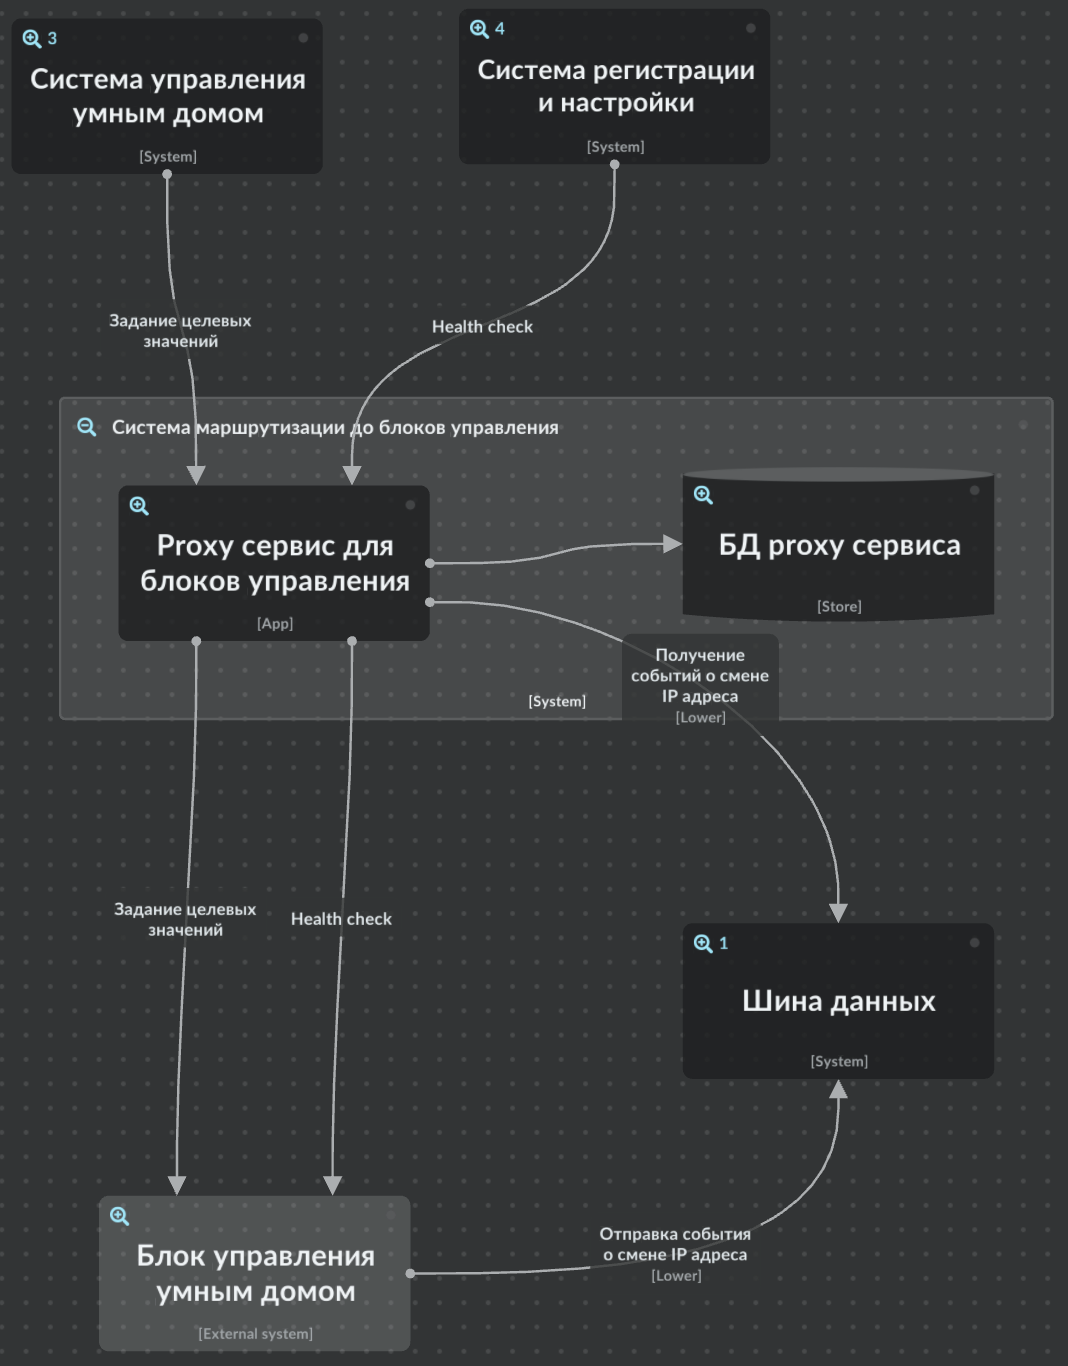
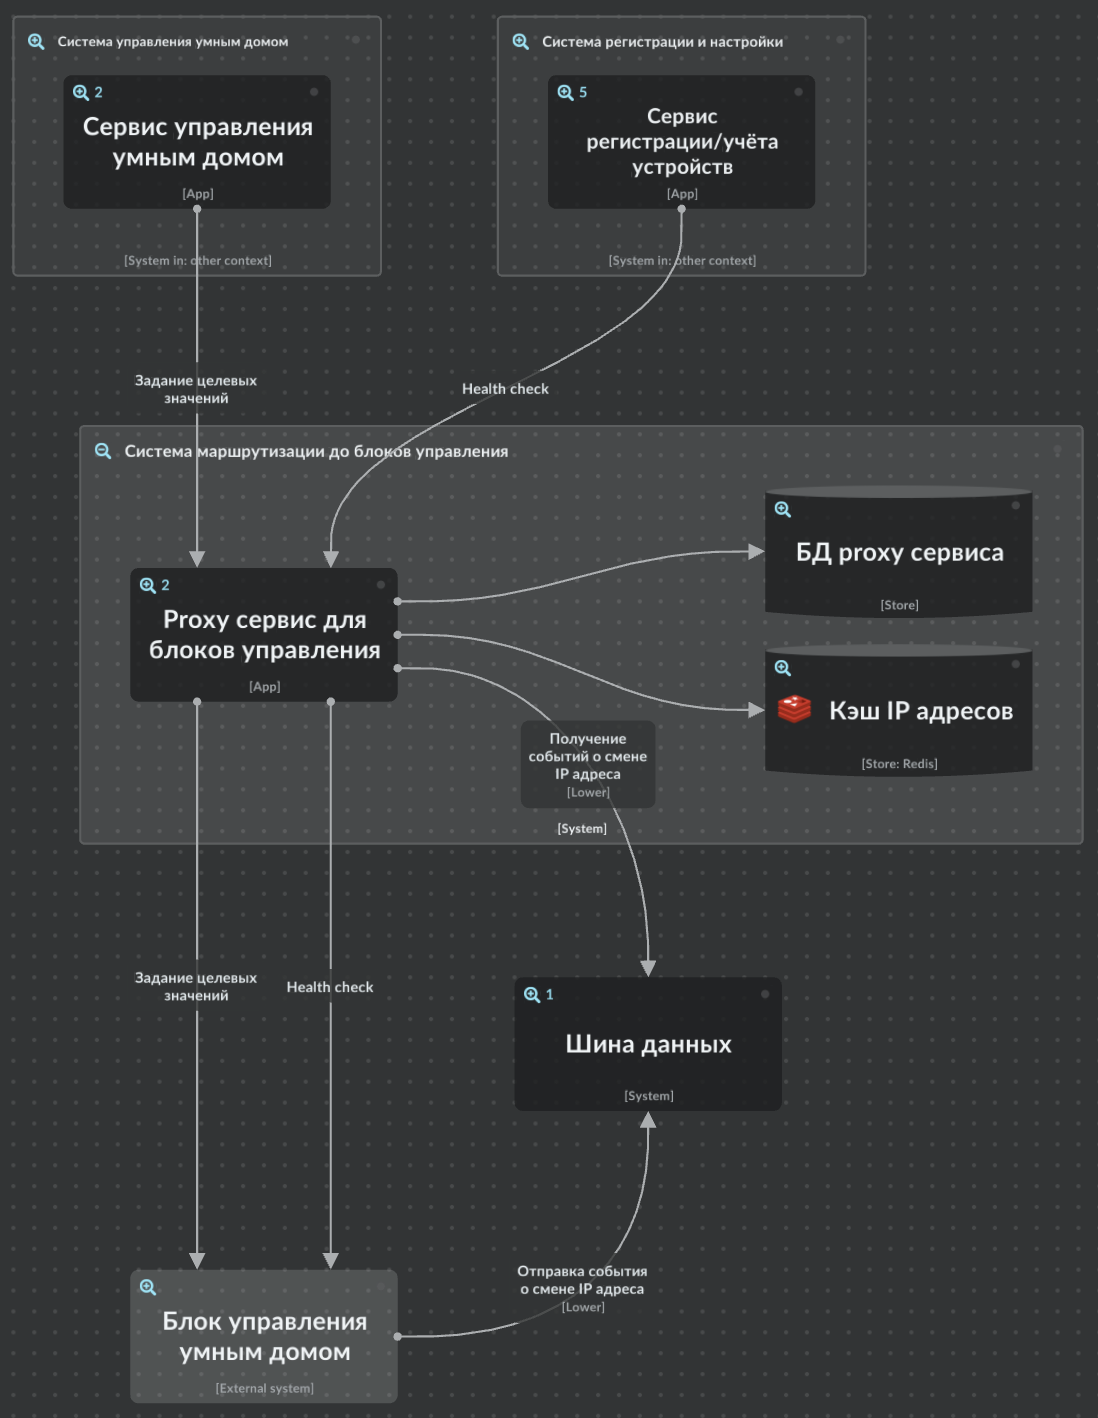
HW: actualize

diff --git a/README.md b/README.md
@@ -98,34 +98,63 @@
 #### C4 System Context diagram 
 ![task_1.2.3.0.png](task_1.2.3.0.png)
 
-#### C4 Containers diagram
+#### C4 Containers diagram and Components diagram
 
-##### API-Gateway
+##### API-Gateway (Containers diagram)
 
 ![task_1.2.3.1.1.png](task_1.2.3.1.1.png)
 
-##### Система мониторинга и логирования
+##### Система мониторинга и логирования (Containers diagram)
 
 ![task_1.2.3.1.2.png](task_1.2.3.1.2.png)
 
+###### Сервис телеметрии (Components diagram)
 
-##### Система управления умным домом
+![task_1.2.3.1.2.1.png](task_1.2.3.1.2.1.png)
+
+###### Сервис логирования операций (Components diagram)
+
+![task_1.2.3.1.2.2.png](task_1.2.3.1.2.2.png)
+
+##### Система управления умным домом (Containers diagram)
 
 ![task_1.2.3.1.3.png](task_1.2.3.1.3.png)
 
-##### Система регистрации и настройки 
+###### Сервис управления умным домом (Components diagram)
+
+![task_1.2.3.1.3.1.png](task_1.2.3.1.3.1.png)
+
+###### Сервис сценариев (Components diagram)
+
+![task_1.2.3.1.3.2.png](task_1.2.3.1.3.2.png)
+
+##### Система регистрации и настройки (Containers diagram)
 
 ![task_1.2.3.1.4.png](task_1.2.3.1.4.png)
 
-##### Система маршрутизации до блоков управления
+###### Сервис профилей пользователей (Components diagram)
+
+![task_1.2.3.1.4.1.png](task_1.2.3.1.4.1.png)
+
+###### Сервис регистрации/учёта устройств (Components diagram)
+
+![task_1.2.3.1.4.2.png](task_1.2.3.1.4.2.png)
+
+##### Система маршрутизации до блоков управления (Containers diagram)
 
 ![task_1.2.3.1.5.png](task_1.2.3.1.5.png)
 
-##### Шина данных
+###### Proxy сервис для блоков управления (Components diagram)
+
+![task_1.2.3.1.5.1.png](task_1.2.3.1.5.1.png)
+
+##### Шина данных (Containers diagram)
 
 ![task_1.2.3.1.6.png](task_1.2.3.1.6.png)
 
 #### C4 Components diagram
+
+##### 
 
 
 ## 1.3 ER-диаграмма
@@ -206,8 +235,6 @@
   - value - значение
   - status - статус устройства
   - occurance_at - когда изменено целевое значение
-
-
 
 ### 1.3.3 Описание связей
 
